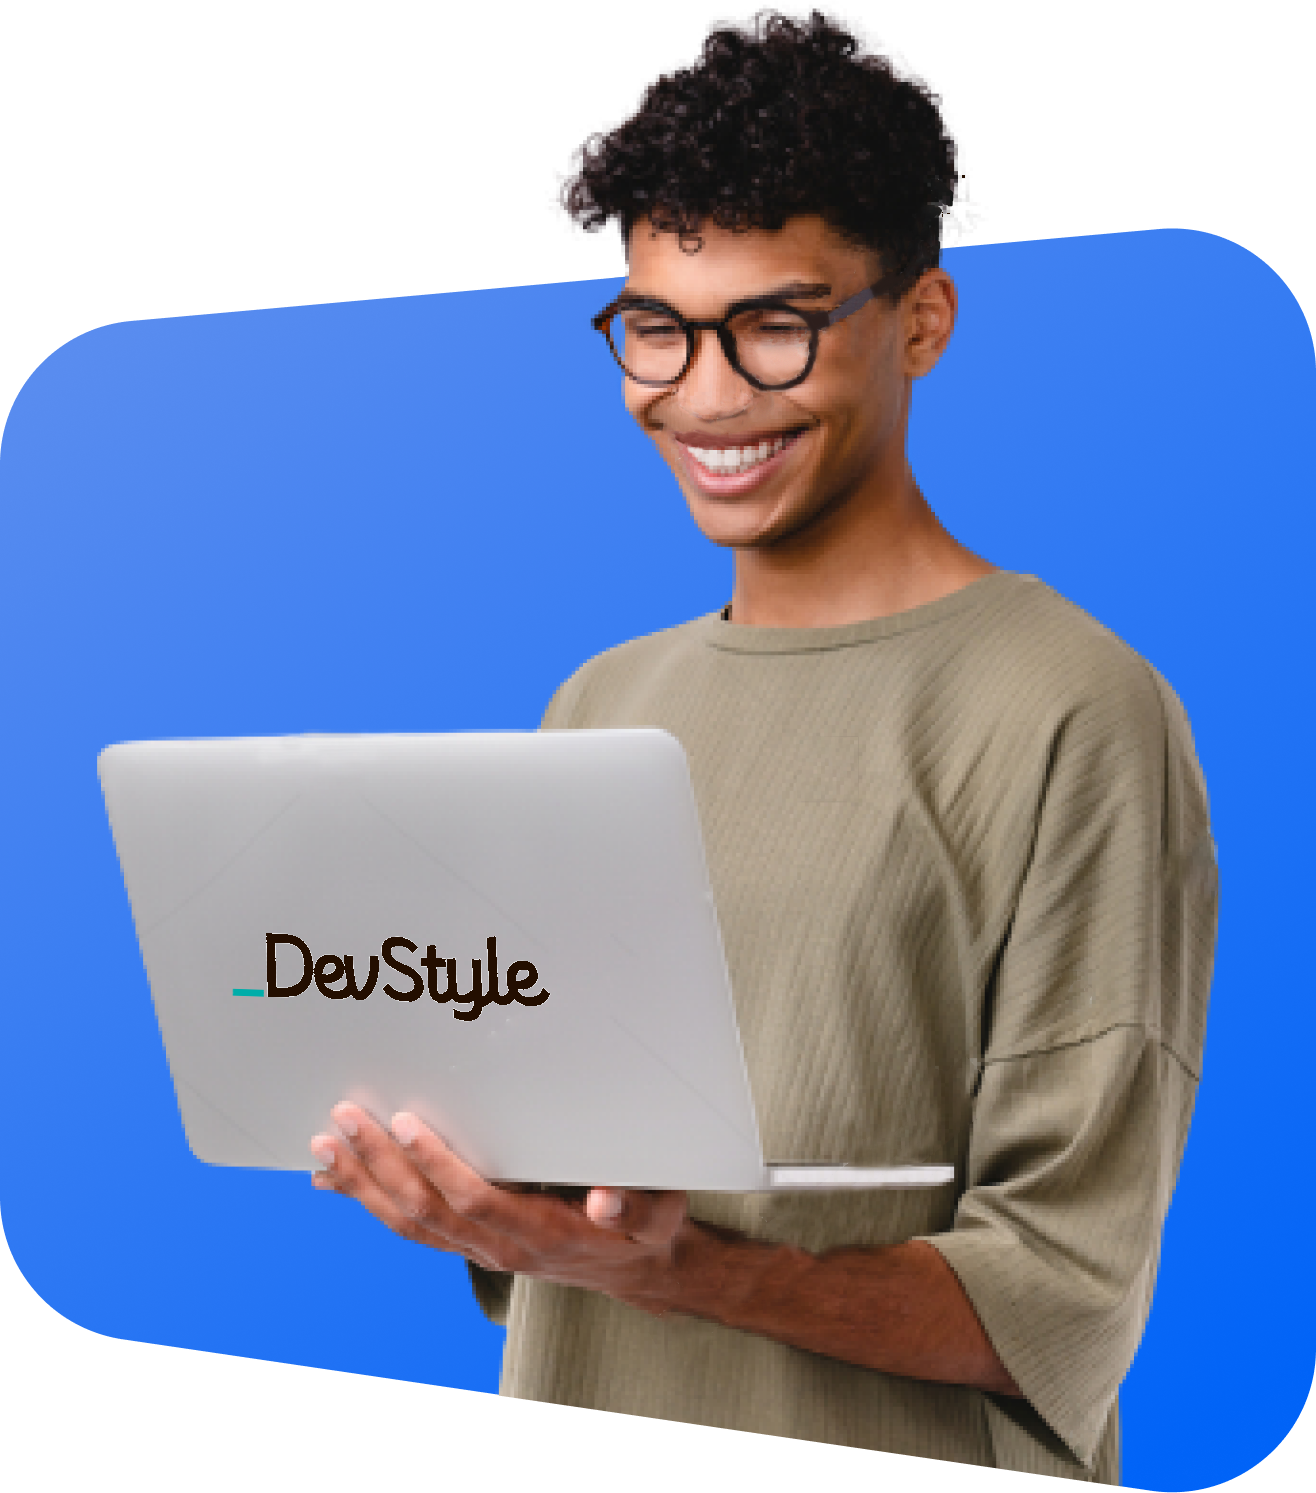
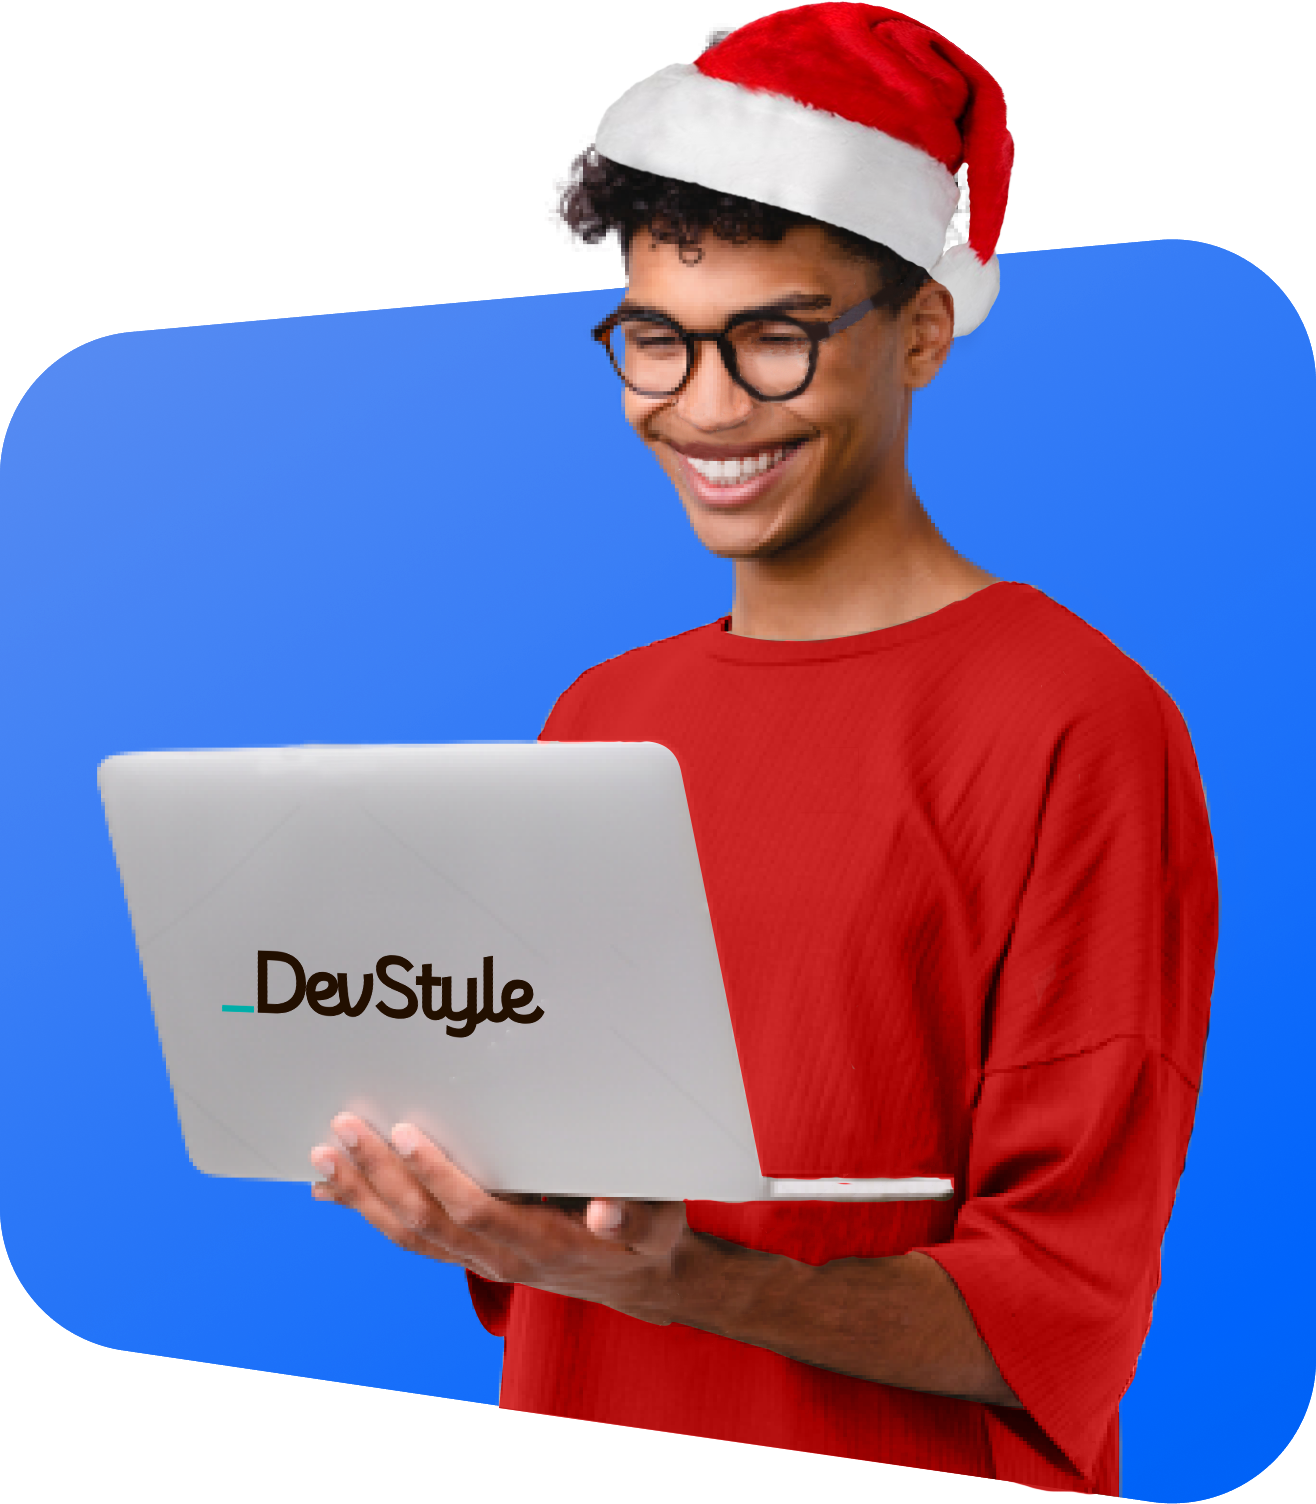
Merry christmas you all

diff --git a/src/components/nav.styles.scss b/src/components/nav.styles.scss
@@ -8,6 +8,129 @@
   align-items: center;
   padding-bottom: 90px;
   padding-top: 65px;
+
+  $globe-width: 12px;
+  $globe-height: 28px;
+  $globe-spacing: 40px;
+  $globe-spread: 3px;
+  $light-off-opacity: 0.4;
+
+  .lightrope {
+    text-align: center;
+    white-space: nowrap;
+    overflow: hidden;
+    position: fixed;
+    top: 0;
+    z-index: 1;
+    margin: -15px 0 0 0;
+    padding: 0;
+    pointer-events: none;
+    width: 100%;
+    li {
+      position: relative;
+      animation-fill-mode: both;
+      animation-iteration-count: infinite;
+      list-style: none;
+      margin: 0;
+      padding: 0;
+      display: block;
+      width: $globe-width;
+      height: $globe-height;
+      border-radius: 50%;
+      margin: $globe-spacing/2;
+      display: inline-block;
+      background: rgba(0, 247, 165, 1);
+      box-shadow: 0px $globe-height/6 $globe-width * 2 $globe-spread
+        rgba(0, 247, 165, 1);
+      animation-name: flash-1;
+      animation-duration: 2s;
+      &:nth-child(2n + 1) {
+        background: rgba(0, 255, 255, 1);
+        box-shadow: 0px $globe-height/6 $globe-width * 2 $globe-spread
+          rgba(0, 255, 255, 0.5);
+        animation-name: flash-2;
+        animation-duration: 0.4s;
+      }
+      &:nth-child(4n + 2) {
+        background: rgba(247, 0, 148, 1);
+        box-shadow: 0px $globe-height/6 $globe-width * 2 $globe-spread
+          rgba(247, 0, 148, 1);
+        animation-name: flash-3;
+        animation-duration: 1.1s;
+      }
+      &:nth-child(odd) {
+        animation-duration: 1.8s;
+      }
+      &:nth-child(3n + 1) {
+        animation-duration: 1.4s;
+      }
+      &:before {
+        content: "";
+        position: absolute;
+        background: #222;
+        width: ($globe-width - 2);
+        height: $globe-height/3;
+        border-radius: 3px;
+        top: (0 - ($globe-height/6));
+        left: 1px;
+      }
+      &:after {
+        content: "";
+        top: (0 - $globe-height/2);
+        left: $globe-width - 3;
+        position: absolute;
+        width: $globe-spacing + 12;
+        height: ($globe-height/3 * 2);
+        border-bottom: solid #222 2px;
+        border-radius: 50%;
+      }
+      &:last-child:after {
+        content: none;
+      }
+      &:first-child {
+        margin-left: -$globe-spacing;
+      }
+    }
+  }
+  @keyframes flash-1 {
+    0%,
+    100% {
+      background: rgba(0, 247, 165, 1);
+      box-shadow: 0px $globe-height/6 $globe-width * 2 $globe-spread
+        rgba(0, 247, 165, 1);
+    }
+    50% {
+      background: rgba(0, 247, 165, $light-off-opacity);
+      box-shadow: 0px $globe-height/6 $globe-width * 2 $globe-spread
+        rgba(0, 247, 165, 0.2);
+    }
+  }
+  @keyframes flash-2 {
+    0%,
+    100% {
+      background: rgba(0, 255, 255, 1);
+      box-shadow: 0px $globe-height/6 $globe-width * 2 $globe-spread
+        rgba(0, 255, 255, 1);
+    }
+    50% {
+      background: rgba(0, 255, 255, $light-off-opacity);
+      box-shadow: 0px $globe-height/6 $globe-width * 2 $globe-spread
+        rgba(0, 255, 255, 0.2);
+    }
+  }
+  @keyframes flash-3 {
+    0%,
+    100% {
+      background: rgba(247, 0, 148, 1);
+      box-shadow: 0px $globe-height/6 $globe-width * 2 $globe-spread
+        rgba(247, 0, 148, 1);
+    }
+    50% {
+      background: rgba(247, 0, 148, $light-off-opacity);
+      box-shadow: 0px $globe-height/6 $globe-width * 2 $globe-spread
+        rgba(247, 0, 148, 0.2);
+    }
+  }
   > .nav-container {
     display: flex;
     justify-content: center;

diff --git a/src/components/nav.component.jsx b/src/components/nav.component.jsx
@@ -63,6 +63,51 @@ const Nav = ({ cart, getCartCount, getTotalPrice, deleteFromCart }) => {
 
   return (
     <Box id="nav-wrapper" paddingX={match ? "10%" : 12} paddingY={4}>
+      {/* Christmas effect */}
+      <ul class="lightrope">
+        <li></li>
+        <li></li>
+        <li></li>
+        <li></li>
+        <li></li>
+        <li></li>
+        <li></li>
+        <li></li>
+        <li></li>
+        <li></li>
+        <li></li>
+        <li></li>
+        <li></li>
+        <li></li>
+        <li></li>
+        <li></li>
+        <li></li>
+        <li></li>
+        <li></li>
+        <li></li>
+        <li></li>
+        <li></li>
+        <li></li>
+        <li></li>
+        <li></li>
+        <li></li>
+        <li></li>
+        <li></li>
+        <li></li>
+        <li></li>
+        <li></li>
+        <li></li>
+        <li></li>
+        <li></li>
+        <li></li>
+        <li></li>
+        <li></li>
+        <li></li>
+        <li></li>
+        <li></li>
+        <li></li>
+        <li></li>
+      </ul>
       <Box
         className="nav-container"
         style={
